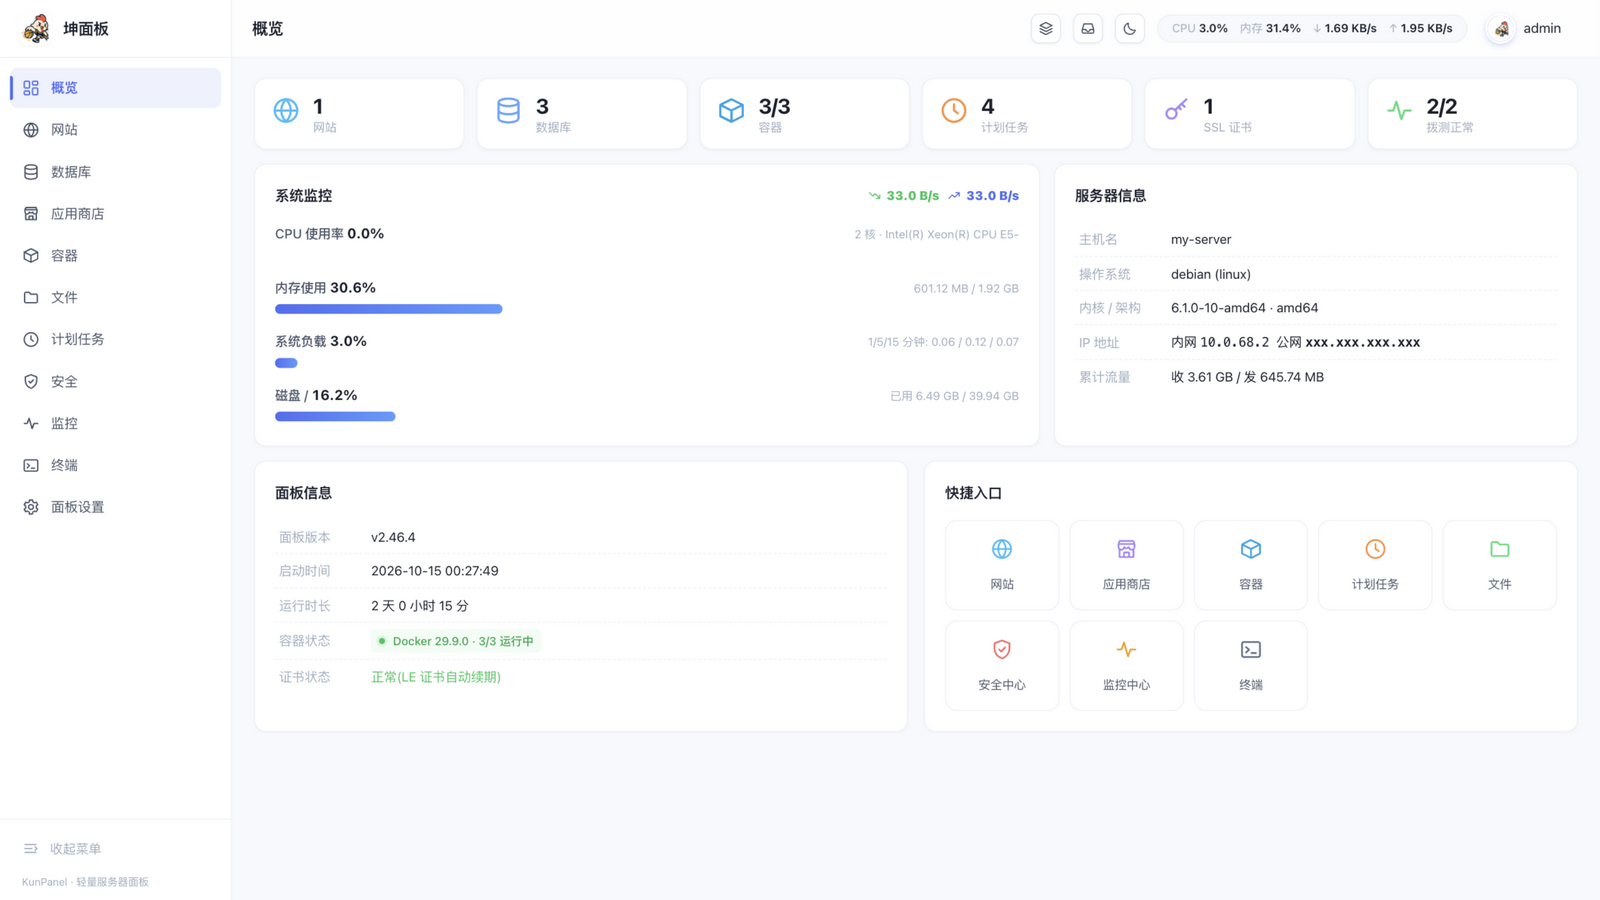
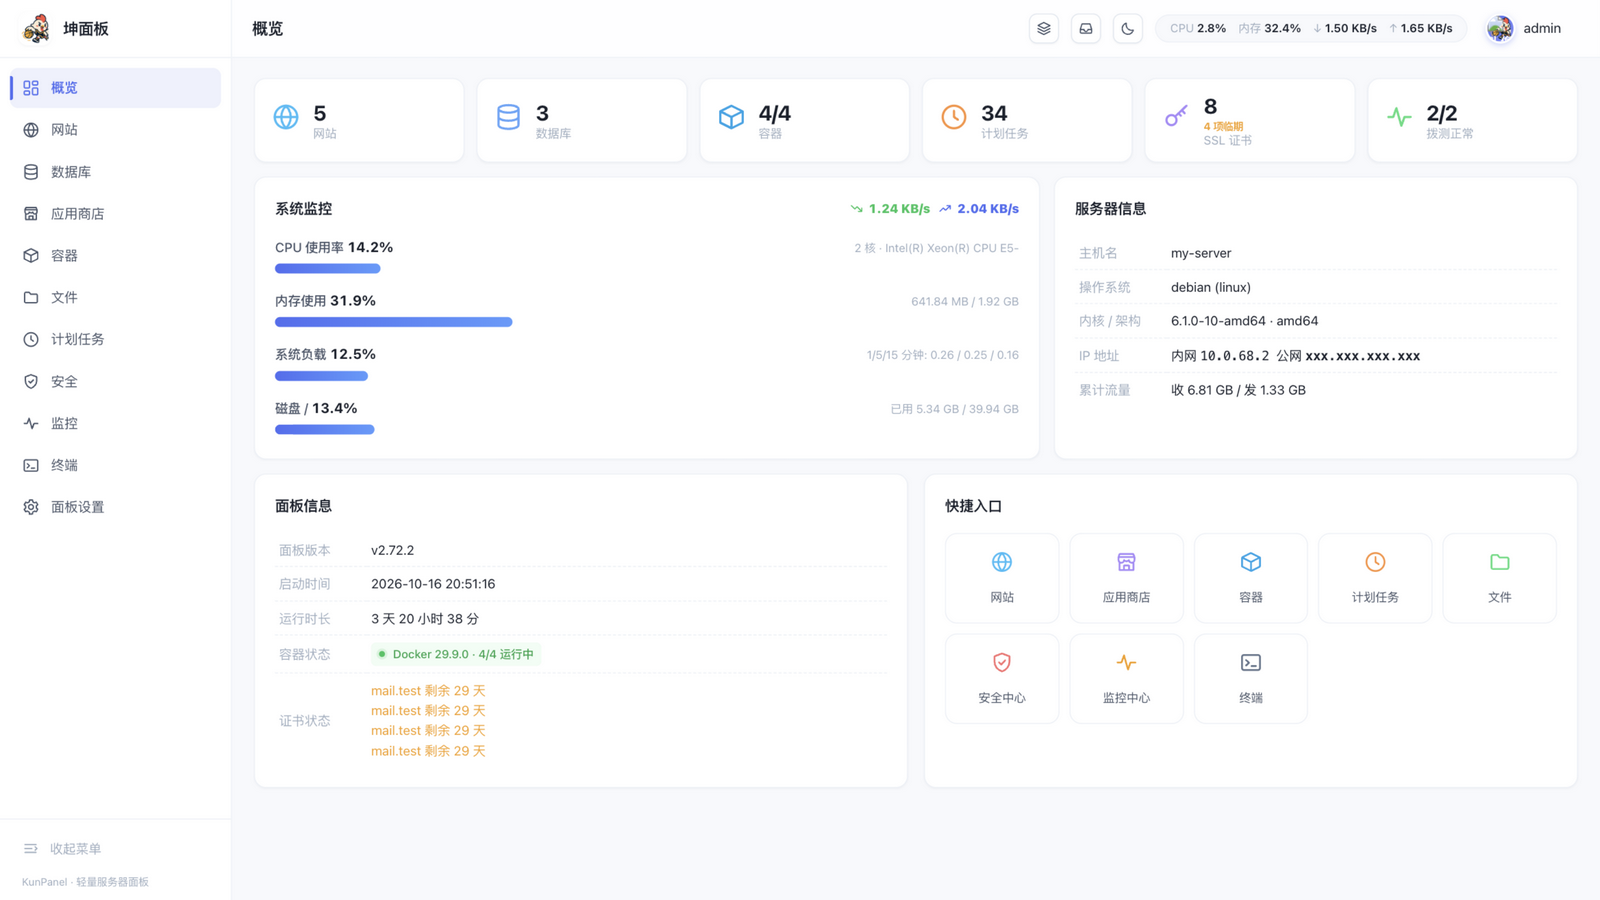
docs: 重写 README 与全部截图——补宝塔一键迁移卖点,8 图预览,v2.72.2

diff --git a/README.md b/README.md
@@ -6,7 +6,7 @@
 
 **轻量级服务器运维管理面板 —— Go 单二进制,开箱即用**
 
-[![](https://img.shields.io/badge/版本-v2.57.1-3b82f6?style=flat-square)](https://github.com/kungec/kunpanel/releases)
+[![](https://img.shields.io/badge/版本-v2.72.2-3b82f6?style=flat-square)](https://github.com/kungec/kunpanel/releases)
 [![](https://img.shields.io/badge/Go-1.23+-00ADD8?style=flat-square)](https://golang.org)
 [![](https://img.shields.io/badge/平台-Linux%20%7C%20Windows-lightgrey?style=flat-square)](./README.md)
 [![](https://img.shields.io/badge/License-MIT-green?style=flat-square)](./LICENSE)
@@ -22,6 +22,16 @@
 
 ---
 
+## 🔄 宝塔面板一键迁移(双向互通)
+
+还在宝塔和坤面板之间纠结?**两边可以互相迁移,随时可回滚**:
+
+- **远程迁移,无脑傻瓜式**:只需输入宝塔服务器的 **IP + root 密码**,自动 SSH 对接、扫描站点、搬运文件
+- **一键搬全家**:域名、网站文件、SSL 证书、伪静态/自定义配置(**逐条保真保留,不是重新生成**)、计划任务、数据库(可选),PHP 站点版本自动映射并自动装好对应运行时
+- **零停机切换**:迁移后反向代理上游自动回源旧机,DNS 切换前网站照常访问;证书导入后异步重签,流量切换与回滚不抢 80/443
+- **随时可回滚**:迁移不动宝塔原有站点与数据,宝塔原计划任务自动注释防双跑
+- 也支持**同机迁移**(宝塔与坤面板装在同一台)和**坤面板 → 宝塔**反向导出
+
 ## ⚡ 一键安装
 
 ### Linux(自适应发行版与架构)
@@ -34,16 +44,17 @@ curl -fsSL https://raw.githubusercontent.com/kungec/kunpanel/main/scripts/instal
 ```
 
 安装完成自动输出:**随机端口 + 随机安全入口 + 随机管理员密码**。
+国内服务器安装与「在线更新」均内置 GitHub 加速兜底,不必科学上网。
 
 <details>
 <summary>📦 安装参数与卸载</summary>
 
 ```bash
 bash install.sh --port 20000 --username admin --password yourpwd   # 自定义初始化
-bash install.sh --with-docker            # 同时安装 Docker 引擎
+bash install.sh --with-docker            # 同时安装 Docker 引擎(自动配国内镜像源)
 bash install.sh --mirror aliyun          # Docker 使用阿里云镜像源
 bash install.sh --proxy https://gh-proxy.com/   # GitHub 下载加速
-bash install.sh --version v2.57.1        # 安装指定版本
+bash install.sh --version v2.72.2        # 安装指定版本
 bash install.sh --offline ./kunpanel_linux_amd64.tar.gz   # 离线安装(含 SHA-256 校验)
 bash install.sh --uninstall              # 卸载
 ```
@@ -69,33 +80,38 @@ docker run -d --name kunpanel -p 20000:20000 \
 | 概览 | 应用商店 |
 |---|---|
 | ![](docs/screenshots/dashboard.png) | ![](docs/screenshots/store.png) |
-| **网站管理** | **文件管理** |
-| ![](docs/screenshots/websites.png) | ![](docs/screenshots/files.png) |
-| **安全中心(WAF)** | **监控中心** |
+| **网站管理** | **宝塔一键迁移** |
+| ![](docs/screenshots/websites.png) | ![](docs/screenshots/migrate.png) |
+| **安全中心(WAF)** | **监控中心(拨测)** |
 | ![](docs/screenshots/security.png) | ![](docs/screenshots/monitor.png) |
+| **文件管理** | **容器管理** |
+| ![](docs/screenshots/files.png) | ![](docs/screenshots/docker.png) |
 
 ## ✨ 功能全景
 
 ### 🛡 安全
-- **WAF 防火墙**(OpenResty + Lua):CC 攻击防御 **七种人机验证模式**(限流 / 5 秒跳转 / JS 无感 / Cloudflare 风格 Verifying / 滑块 / 点击 / 算术验证码)、IP 黑白名单(**支持 CIDR 网段**)、UA 黑名单与搜索引擎蜘蛛白名单(可选严格反向 DNS 验证)、敏感文件与危险方法拦截、SQL 注入 / XSS / 文件包含 / 命令执行检测、**自定义正则规则**(热更新)
-- **自动封禁**:违规超阈值的公网 IP 自动拉黑(私网强制排除防误伤),拦截日志一键封禁
-- **一键安全自检**:9 项体检评分;SSH 加固;登录限流 + PNG 验证码 + TOTP 两步验证 + 随机安全入口
+- **WAF 防火墙**(OpenResty + Lua):CC 攻击防御 **七种人机验证模式**(限流 / 5 秒跳转 / JS 无感 / Cloudflare 风格 Verifying / 滑块 / 点击 / 算术验证码)、IP 黑白名单(**支持 CIDR 网段**)、UA 黑名单与搜索引擎蜘蛛白名单、敏感文件与危险方法拦截、SQL 注入 / XSS / 文件包含 / 命令执行检测、**自定义正则规则**(热更新)
+- **自动封禁**:违规超阈值的公网 IP 自动拉黑(私网强制排除防误伤),拦截日志一键封禁;**容器端口 DOCKER-USER 管控**(堵 Docker 绕过系统防火墙的口子)
+- **一键安全自检**:9 项体检评分;SSH 加固;登录限流 + PNG 验证码 + TOTP 两步验证 + 随机安全入口;ICMP ping 开关
 
 ### 🌐 网站
 - 静态 / PHP / 反向代理三类型;HTTP/2、HSTS、Gzip、浏览器缓存、限速、防盗链、防恶意解析、维护模式、安全响应头、伪静态预设、301 重定向
-- 反向代理**负载均衡**(多上游 + 权重);Let's Encrypt 一键申请与自动续期;证书上传 / 下载 / 自签
+- 反向代理**负载均衡**(多上游 + 权重);Let's Encrypt 一键申请与自动续期(支持测试环境预签);证书上传 / 下载 / 自签
+- **网站流量统计**(PV/UV/流量/Top 排行);站点日志独立落盘 + 一键轮转归档
 - 站点备份:服务端留存 / 打包下载 / 上传恢复(原子化,失败不伤原站)
 
 ### 🗄 数据库 · 应用 · 容器
 - MySQL / MariaDB / PostgreSQL / Redis 管理:SQL 控制台、备份导入导出、root 改密、phpMyAdmin 快捷入口
-- 应用商店 14+ 应用一键部署,官方多版本可选;**自定义应用**(compose 在线校验)
-- 容器 / 镜像 / 网络 / 卷管理,容器终端,资源限制热更新
+- 应用商店 **17+ 应用**一键部署(WordPress / Nginx / OpenResty / 多版本 PHP / MySQL / Redis / 坤发卡 / NAT Cloud 等),官方多版本可选;**自定义应用**(compose 在线校验)
+- 容器 / 镜像 / 网络 / 卷管理,容器终端,资源限制热更新,日志轮转配置
 
 ### 📂 文件 · 任务 · 监控
-- **专业代码编辑器**:CodeMirror 高亮 13 种语言、快捷键、**历史版本回滚**、全屏
-- 文件管理:拖拽上传 / 远程下载 / 压缩解压 / 权限 / 回收站 / 图片预览
-- 计划任务七类型 + 可视化执行周期;磁盘 IO 与网络监控;拨测;告警推送(邮件 / 钉钉 / 飞书 / Webhook)
-- **后台任务中心** + 消息中心 + 每日威胁摘要
+- **专业代码编辑器**:CodeMirror 高亮 13 种语言、快捷键、**历史版本回滚**、全屏;文件名 / 内容全文搜索
+- 文件管理:拖拽上传 / 远程下载 / 压缩解压 / 权限 / **回收站(可恢复、定时清理)** / 图片预览
+- 计划任务七类型(Shell / 目录备份 / 日志切割 / 数据库备份 / 回收站清理 / 面板备份 / 容器日志清理)+ 可视化执行周期,支持**备份完成后自动上传 SFTP 远程**
+- **网站拨测**:每分钟探测 HTTP/TCP,连续失败防抖判宕,状态翻转推送告警,24h 可用率与延迟历史
+- 磁盘 IO 与网络监控(24h 历史,异常退出不丢数据);**后台任务中心**(长任务实时进度条)+ 消息中心 + 每日威胁摘要
+- **告警推送**:邮件 / 钉钉 / 飞书 / Webhook
 
 ## 🔒 安全设计
 
@@ -104,8 +120,9 @@ docker run -d --name kunpanel -p 20000:20000 \
 | 认证 | PNG 图形验证码、IP + 用户名双维度限流、TOTP 两步验证、随机安全入口 |
 | 会话 | HMAC-SHA256 签名令牌,改密即轮换密钥强制下线 |
 | 注入 | 域名白名单、compose 参数转义、解压 ZipSlip 防护、SQL 标识符白名单 |
-| 传输 | CSP 脚本哈希白名单(无 unsafe-inline)、HSTS 可选、面板 HTTPS |
-| 沙箱 | systemd NoNewPrivileges / ProtectSystem / 私网自动封禁排除 |
+| 传输 | CSP 脚本哈希白名单(无 unsafe-inline)、HSTS 可选、面板 HTTPS;远程迁移 SSH 指纹 TOFU 校验 |
+| 供应链 | 升级包 SHA-256 校验和验证(直连 GitHub 优先,国内回退加速代理并明确标注信任来源) |
+| 沙箱 | systemd NoNewPrivileges / ProtectSystem / ReadWritePaths 白名单 / 私网自动封禁排除 |
 | 审计 | 登录与变更操作全留痕、真实状态码、安全回归测试锁定 |
 
 > ⚠ 注意:Docker 发布的端口**不经过** ufw / firewalld( iptables DOCKER 链直通),
@@ -115,7 +132,7 @@ docker run -d --name kunpanel -p 20000:20000 \
 
 ```bash
 git clone https://github.com/kungec/kunpanel.git && cd kunpanel
-bash build.sh v2.57.1     # 产出 linux(amd64/arm64/arm) + windows 全平台安装包
+bash build.sh v2.72.2     # 产出 linux(amd64/arm64/arm) + windows 全平台安装包
 ```
 
 Go 1.23+,前端为原生 JS(`go:embed` 内嵌),无 Node 构建步骤。
@@ -134,4 +151,3 @@ Go 1.23+,前端为原生 JS(`go:embed` 内嵌),无 Node 构建步骤。
 ## 📄 License
 
 [MIT](LICENSE) · 交流 QQ 群:**307386089**
-
